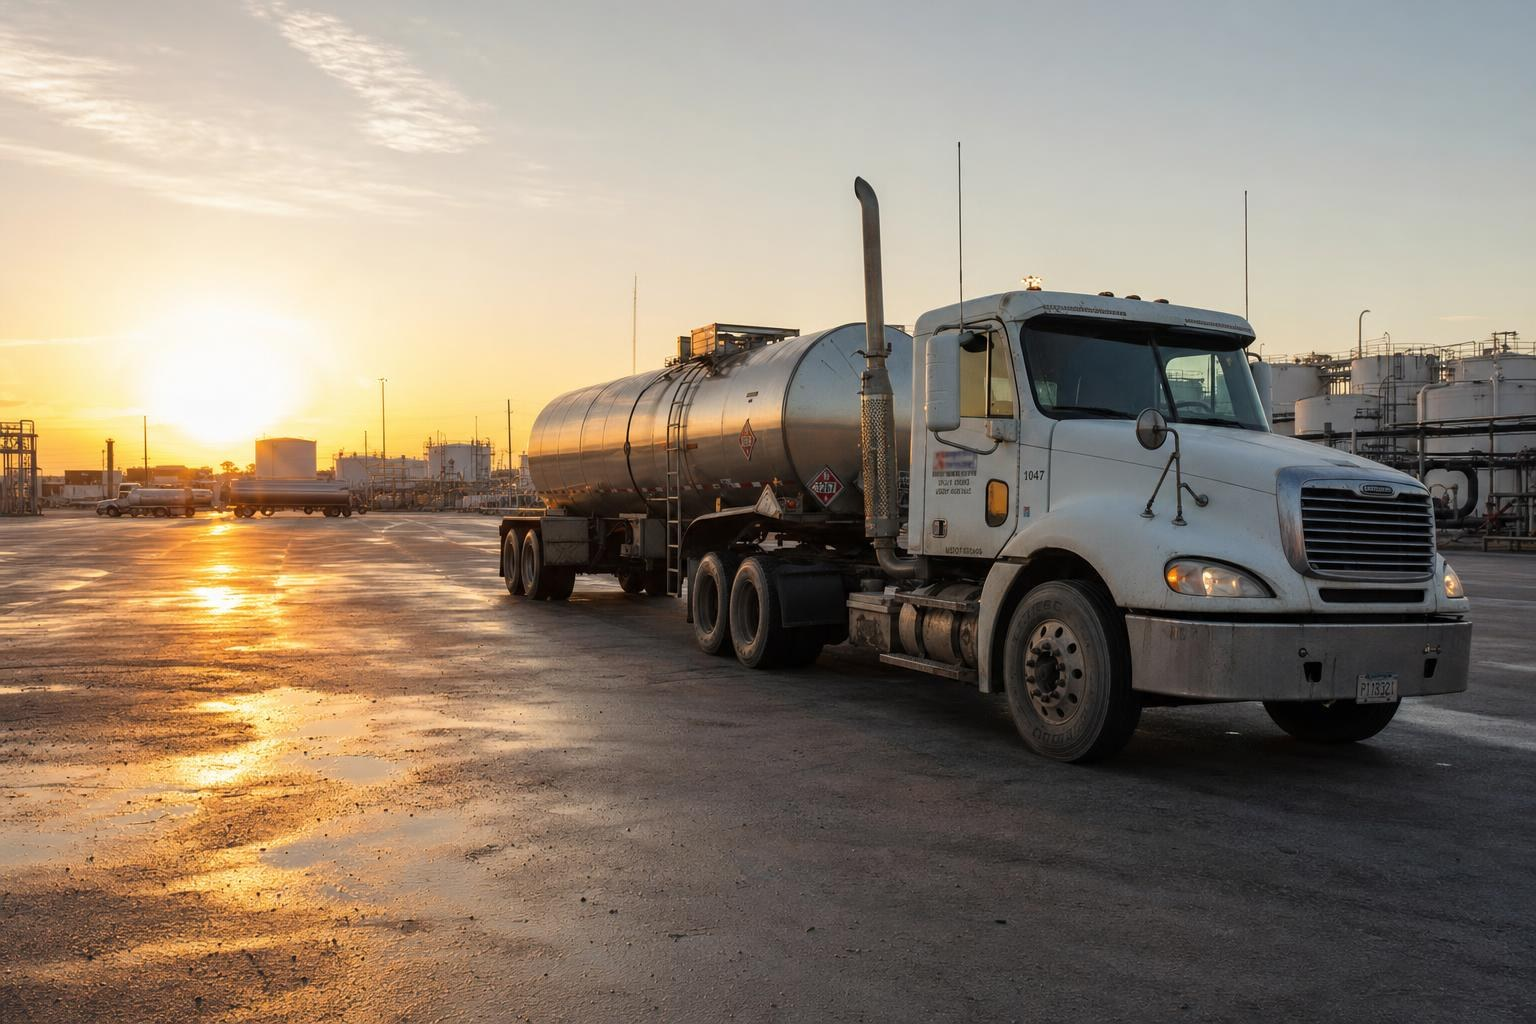
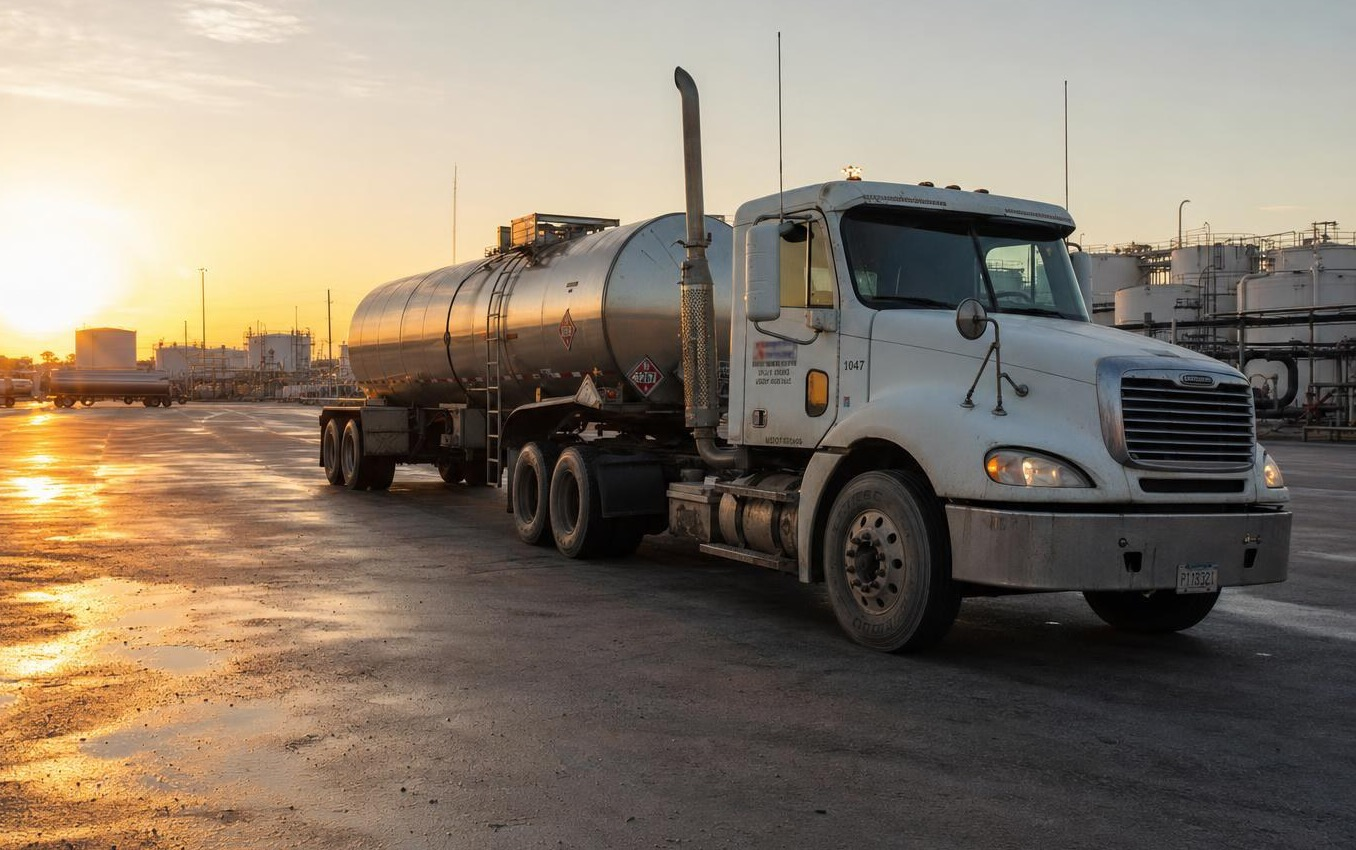
Swap sunny tanker into hero, recrop terminal photo, drop mode chips, close accordion by default

diff --git a/site/index.html b/site/index.html
@@ -48,7 +48,7 @@
   <main id="main">
     <!-- HERO -->
     <section class="hero" aria-labelledby="hero-title">
-      <img class="hero__bg" src="/site/freight-hero-terminal-morning.jpg" alt="" fetchpriority="high">
+      <img class="hero__bg" src="/site/freight-tanker-day.jpg" alt="" fetchpriority="high">
       <div class="wrap">
         <div class="hero__grid">
           <div class="hero__content">
@@ -64,14 +64,6 @@
                 <span class="btn__icon" aria-hidden="true"><svg viewBox="0 0 24 24" fill="none" stroke="currentColor" stroke-width="2.4" stroke-linecap="round" stroke-linejoin="round"><path d="M7 17 17 7"/><path d="M8 7h9v9"/></svg></span>
               </a>
               <a class="btn--secondary" href="/carriers">For Carriers <svg viewBox="0 0 24 24" fill="none" stroke="currentColor" stroke-width="2.4" stroke-linecap="round" stroke-linejoin="round" aria-hidden="true"><path d="M5 12h14"/><path d="m13 6 6 6-6 6"/></svg></a>
-            </div>
-            <div class="hero__modes" aria-label="Freight we cover">
-              <span class="hero__mode hero__mode--hz">Hazmat · our specialty</span>
-              <span class="hero__mode">Tanker</span>
-              <span class="hero__mode">Reefer</span>
-              <span class="hero__mode">Dry van</span>
-              <span class="hero__mode">Flatbed</span>
-              <span class="hero__mode">Drayage</span>
             </div>
           </div>
         </div>
@@ -124,7 +116,7 @@
         </div>
 
         <div class="serve__photos">
-          <img src="/site/freight-tanker-day.jpg" alt="Placarded chemical tanker truck on an interstate on a sunny day">
+          <img src="/site/freight-hero-terminal-morning.jpg" alt="Placarded chemical tanker truck at a terminal at sunrise">
           <img src="/site/freight-drayage-port.jpg" alt="Drayage truck hauling a container beneath port cranes">
         </div>
       </div>
@@ -139,7 +131,7 @@
         </div>
 
         <div class="svc">
-          <details name="svc" open>
+          <details name="svc">
             <summary>
               <span class="svc__icon" aria-hidden="true"><svg viewBox="0 0 24 24" fill="none" stroke="currentColor" stroke-width="1.7" stroke-linecap="round" stroke-linejoin="round"><circle cx="12" cy="12" r="10"/><path d="M16 8h-6a2 2 0 1 0 0 4h4a2 2 0 1 1 0 4H8"/><path d="M12 18V6"/></svg></span>
               <span class="svc__titles">

diff --git a/site/newpeer.css b/site/newpeer.css
@@ -223,16 +223,6 @@ p { margin: 0; }
 .hero__cta .btn--secondary svg { width: 15px; height: 15px; }
 .hero__cta .btn--secondary:hover { color: var(--accent); }
 
-/* Hero freight-mode chips (hazmat-led, showing breadth) */
-.hero__modes { margin-top: clamp(2rem, 3.5vw, 2.8rem); display: flex; flex-wrap: wrap; gap: 0.6rem; align-items: center; }
-.hero__mode {
-  display: inline-flex; align-items: center;
-  padding: 0.38rem 0.95rem; border-radius: var(--r-pill);
-  border: 1px solid var(--line-dark); color: rgba(255, 255, 255, 0.82);
-  font-size: 0.8rem; font-weight: 700; letter-spacing: 0.07em; text-transform: uppercase;
-  background: rgba(255, 255, 255, 0.06);
-}
-.hero__mode--hz { background: var(--gold-grad); box-shadow: var(--gold-edge); border-color: transparent; color: var(--navy); }
 
 /* ---------- Logo band (mentors and advisors) ---------- */
 .logo-band { background: var(--navy); padding: clamp(2rem, 4vw, 3rem) 0; }